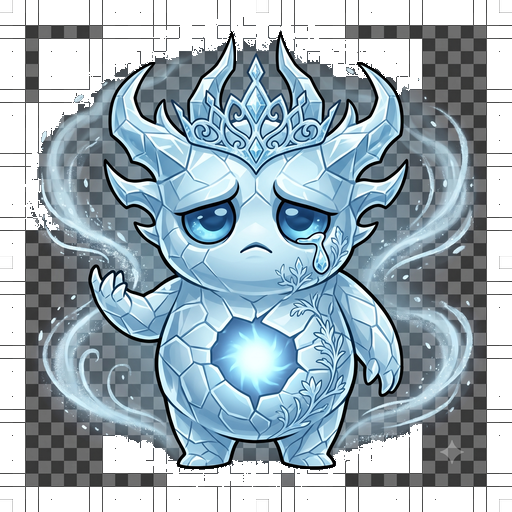
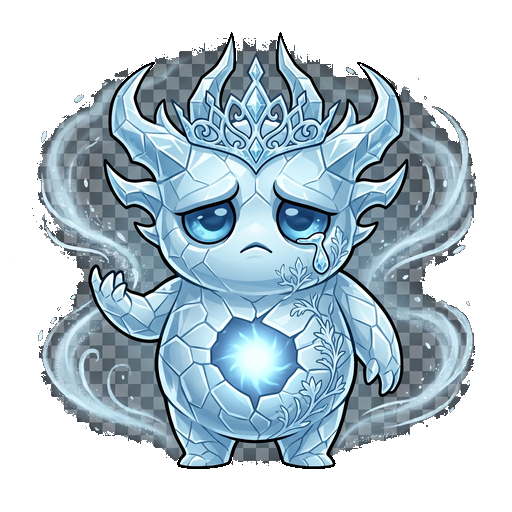
Fix checkerboard artifacts and switch the gallery to hero portraits
The 3D turnaround renders looked rough (single-view-reconstruction
artifacts, awkward angles) so the "Meet the Crownlings" gallery now
uses the same painted 2D art already proven on the homepage instead.

Also found and fixed a real bug in all 6 art files: leftover
checkerboard pixels baked into the "transparent" background (some
light-gray/white, some dark) that only became visible once zoomed in
for the circular portrait crop. Border-connected flood fill on the
color channels (catches the checker's alternating tones without
touching real character-colored pixels) cleared it everywhere it
appeared. Tuned the portrait zoom/position to keep crowns in frame.

diff --git a/how-to-play.html b/how-to-play.html
@@ -75,26 +75,25 @@
   }
   .section-head p{color:var(--cream-dim); margin:0;}
 
-  /* ---- character gallery (front/back turnarounds) ---- */
-  .turn-grid{
-    display:grid; grid-template-columns:repeat(auto-fit, minmax(260px, 1fr));
-    gap:22px; max-width:1000px; margin:0 auto;
+  /* ---- character gallery ---- */
+  .hero-grid{
+    display:grid; grid-template-columns:repeat(auto-fit, minmax(220px, 1fr));
+    gap:26px; max-width:1000px; margin:0 auto;
   }
-  .turn-card{
-    background:var(--bg-soft); border:1px solid var(--line); border-radius:14px;
-    padding:20px; text-align:center;
+  .hero-g-card{
+    background:var(--bg-soft); border:1px solid var(--line); border-radius:16px;
+    padding:26px 20px; text-align:center; transition:transform .2s, border-color .2s;
   }
-  .turn-card.dark{border-color:rgba(255,59,70,0.25);}
-  .turn-card h3{margin:0 0 4px; font-family:Georgia,serif; letter-spacing:0.03em; color:var(--blood-glow);}
-  .turn-card .flavor{margin:0 0 14px; font-size:0.82rem; color:var(--cream-dim);}
-  .turn-pair{display:flex; gap:10px; justify-content:center;}
-  .turn-pair figure{margin:0; flex:1; max-width:150px;}
-  .turn-pair img{
-    width:100%; aspect-ratio:1/1; object-fit:contain;
-    background:radial-gradient(circle, rgba(255,240,210,0.05), transparent 70%);
-    border-radius:10px;
+  .hero-g-card:hover{transform:translateY(-4px); border-color:rgba(255,59,70,0.4);}
+  .hero-g-card.dark{border-color:rgba(255,59,70,0.2);}
+  .hero-g-card .portrait{
+    width:190px; height:190px; margin:0 auto 16px; border-radius:50%; overflow:hidden;
+    display:flex; align-items:center; justify-content:center;
+    background:radial-gradient(circle, rgba(255,240,210,0.07), transparent 70%);
   }
-  .turn-pair figcaption{font-size:0.68rem; letter-spacing:0.08em; text-transform:uppercase; color:var(--cream-dim); opacity:0.7; margin-top:6px;}
+  .hero-g-card .portrait img{width:190%; height:190%; max-width:none; object-fit:cover; object-position:center 40%;}
+  .hero-g-card h3{margin:0 0 4px; font-family:Georgia,serif; letter-spacing:0.03em; color:var(--blood-glow);}
+  .hero-g-card .flavor{margin:0; font-size:0.85rem; color:var(--cream-dim);}
 
   /* ---- expanded loop ---- */
   .loop-detail{max-width:820px; margin:0 auto; display:flex; flex-direction:column; gap:16px;}
@@ -177,54 +176,36 @@
       <h2>One bright form. Five ways to fall.</h2>
       <p>Every crownling carries a dormant crown. Raise it well and it stays bright — neglect it, or let the wrong crown near it, and it awakens one of five corrupted forms instead.</p>
     </div>
-    <div class="turn-grid">
-      <div class="turn-card">
+    <div class="hero-grid">
+      <div class="hero-g-card">
+        <div class="portrait"><img src="assets/img/bright_adult.png" loading="lazy" alt="Bright crownling"></div>
         <h3>Bright</h3>
         <p class="flavor">Raised well — the gentle, loyal path</p>
-        <div class="turn-pair">
-          <figure><img src="assets/img/turnaround/bright_front.png" loading="lazy" alt="Bright crownling, front view"><figcaption>Front</figcaption></figure>
-          <figure><img src="assets/img/turnaround/bright_back.png" loading="lazy" alt="Bright crownling, back view"><figcaption>Back</figcaption></figure>
-        </div>
       </div>
-      <div class="turn-card dark">
+      <div class="hero-g-card dark">
+        <div class="portrait"><img src="assets/img/ember_adult.png" loading="lazy" alt="Ember corruption"></div>
         <h3>Ember</h3>
         <p class="flavor">Fire &amp; ruin</p>
-        <div class="turn-pair">
-          <figure><img src="assets/img/turnaround/ember_front.png" loading="lazy" alt="Ember corruption, front view"><figcaption>Front</figcaption></figure>
-          <figure><img src="assets/img/turnaround/ember_back.png" loading="lazy" alt="Ember corruption, back view"><figcaption>Back</figcaption></figure>
-        </div>
       </div>
-      <div class="turn-card dark">
+      <div class="hero-g-card dark">
+        <div class="portrait"><img src="assets/img/still_adult.png" loading="lazy" alt="Still corruption"></div>
         <h3>Still</h3>
         <p class="flavor">Frost &amp; silence</p>
-        <div class="turn-pair">
-          <figure><img src="assets/img/turnaround/still_front.png" loading="lazy" alt="Still corruption, front view"><figcaption>Front</figcaption></figure>
-          <figure><img src="assets/img/turnaround/still_back.png" loading="lazy" alt="Still corruption, back view"><figcaption>Back</figcaption></figure>
-        </div>
       </div>
-      <div class="turn-card dark">
+      <div class="hero-g-card dark">
+        <div class="portrait"><img src="assets/img/riven_child.png" loading="lazy" alt="Riven Sky corruption"></div>
         <h3>Riven Sky</h3>
         <p class="flavor">Storm &amp; lightning</p>
-        <div class="turn-pair">
-          <figure><img src="assets/img/turnaround/riven_front.png" loading="lazy" alt="Riven Sky corruption, front view"><figcaption>Front</figcaption></figure>
-          <figure><img src="assets/img/turnaround/riven_back.png" loading="lazy" alt="Riven Sky corruption, back view"><figcaption>Back</figcaption></figure>
-        </div>
       </div>
-      <div class="turn-card dark">
+      <div class="hero-g-card dark">
+        <div class="portrait"><img src="assets/img/gorge_adult.png" loading="lazy" alt="Gorge corruption"></div>
         <h3>Gorge</h3>
         <p class="flavor">Chaos &amp; hunger</p>
-        <div class="turn-pair">
-          <figure><img src="assets/img/turnaround/gorge_front.png" loading="lazy" alt="Gorge corruption, front view"><figcaption>Front</figcaption></figure>
-          <figure><img src="assets/img/turnaround/gorge_back.png" loading="lazy" alt="Gorge corruption, back view"><figcaption>Back</figcaption></figure>
-        </div>
       </div>
-      <div class="turn-card dark">
+      <div class="hero-g-card dark">
+        <div class="portrait"><img src="assets/img/sleep_child.png" loading="lazy" alt="The Sleepless corruption"></div>
         <h3>The Sleepless</h3>
         <p class="flavor">Blood &amp; the void</p>
-        <div class="turn-pair">
-          <figure><img src="assets/img/turnaround/sleep_front.png" loading="lazy" alt="The Sleepless corruption, front view"><figcaption>Front</figcaption></figure>
-          <figure><img src="assets/img/turnaround/sleep_back.png" loading="lazy" alt="The Sleepless corruption, back view"><figcaption>Back</figcaption></figure>
-        </div>
       </div>
     </div>
   </div>
